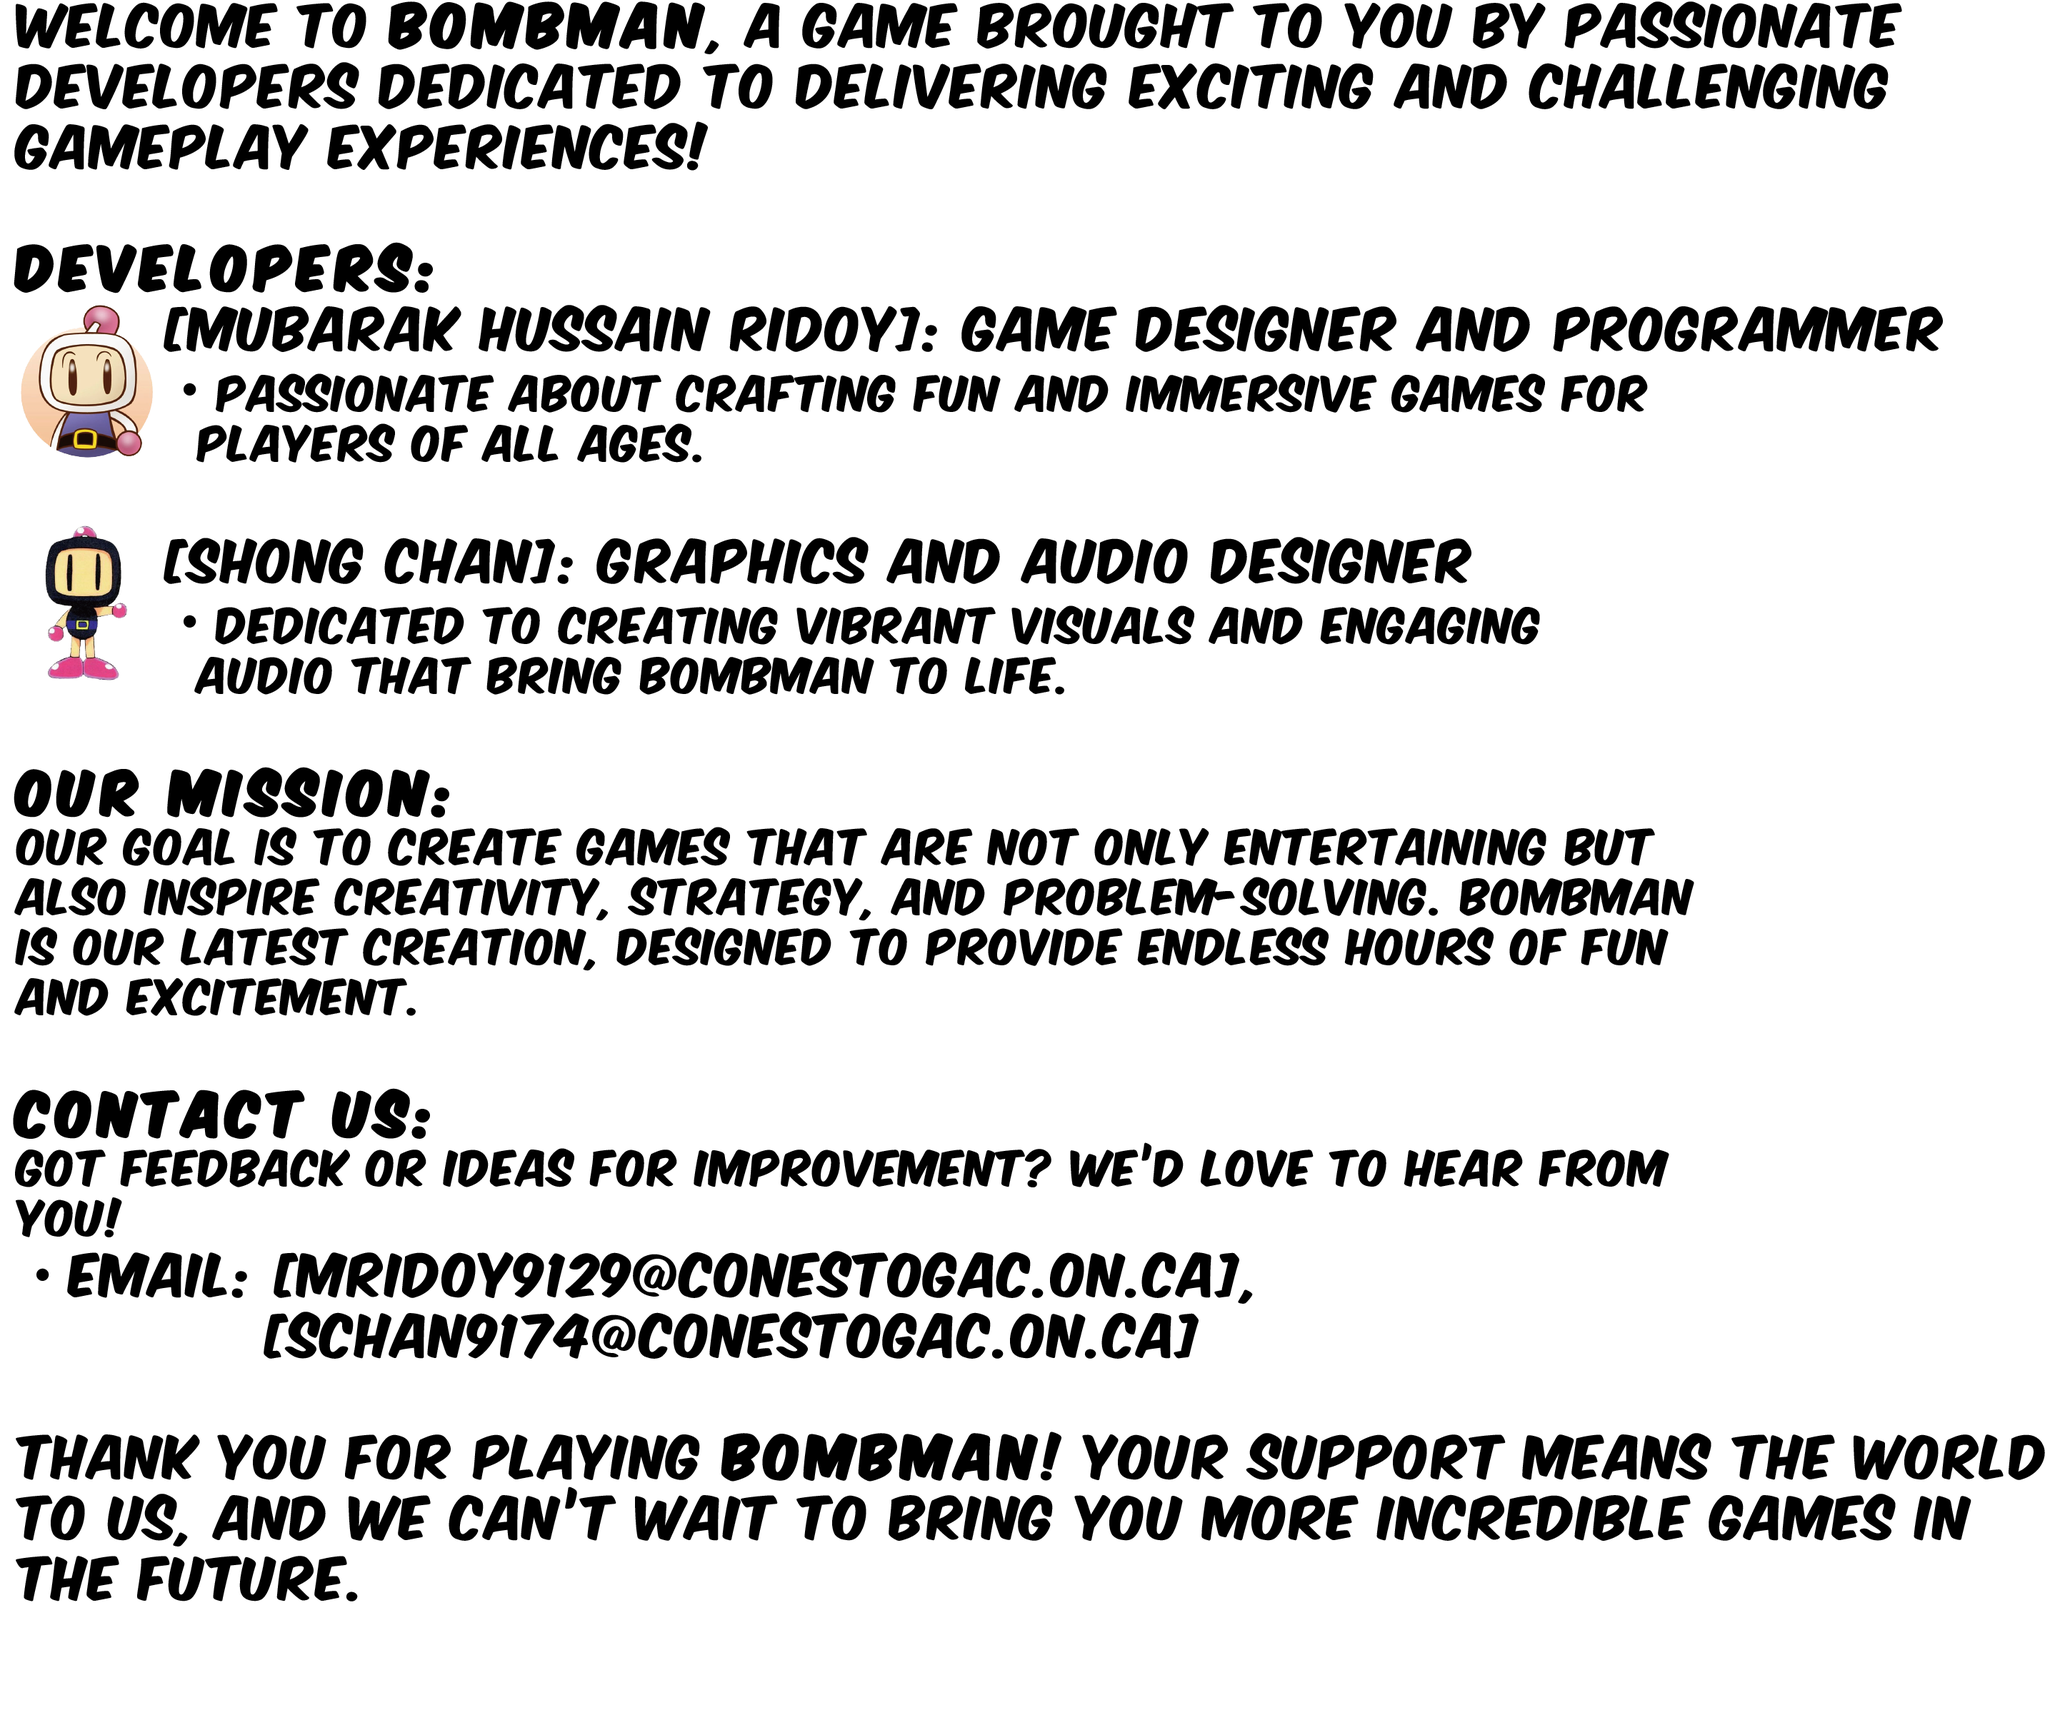
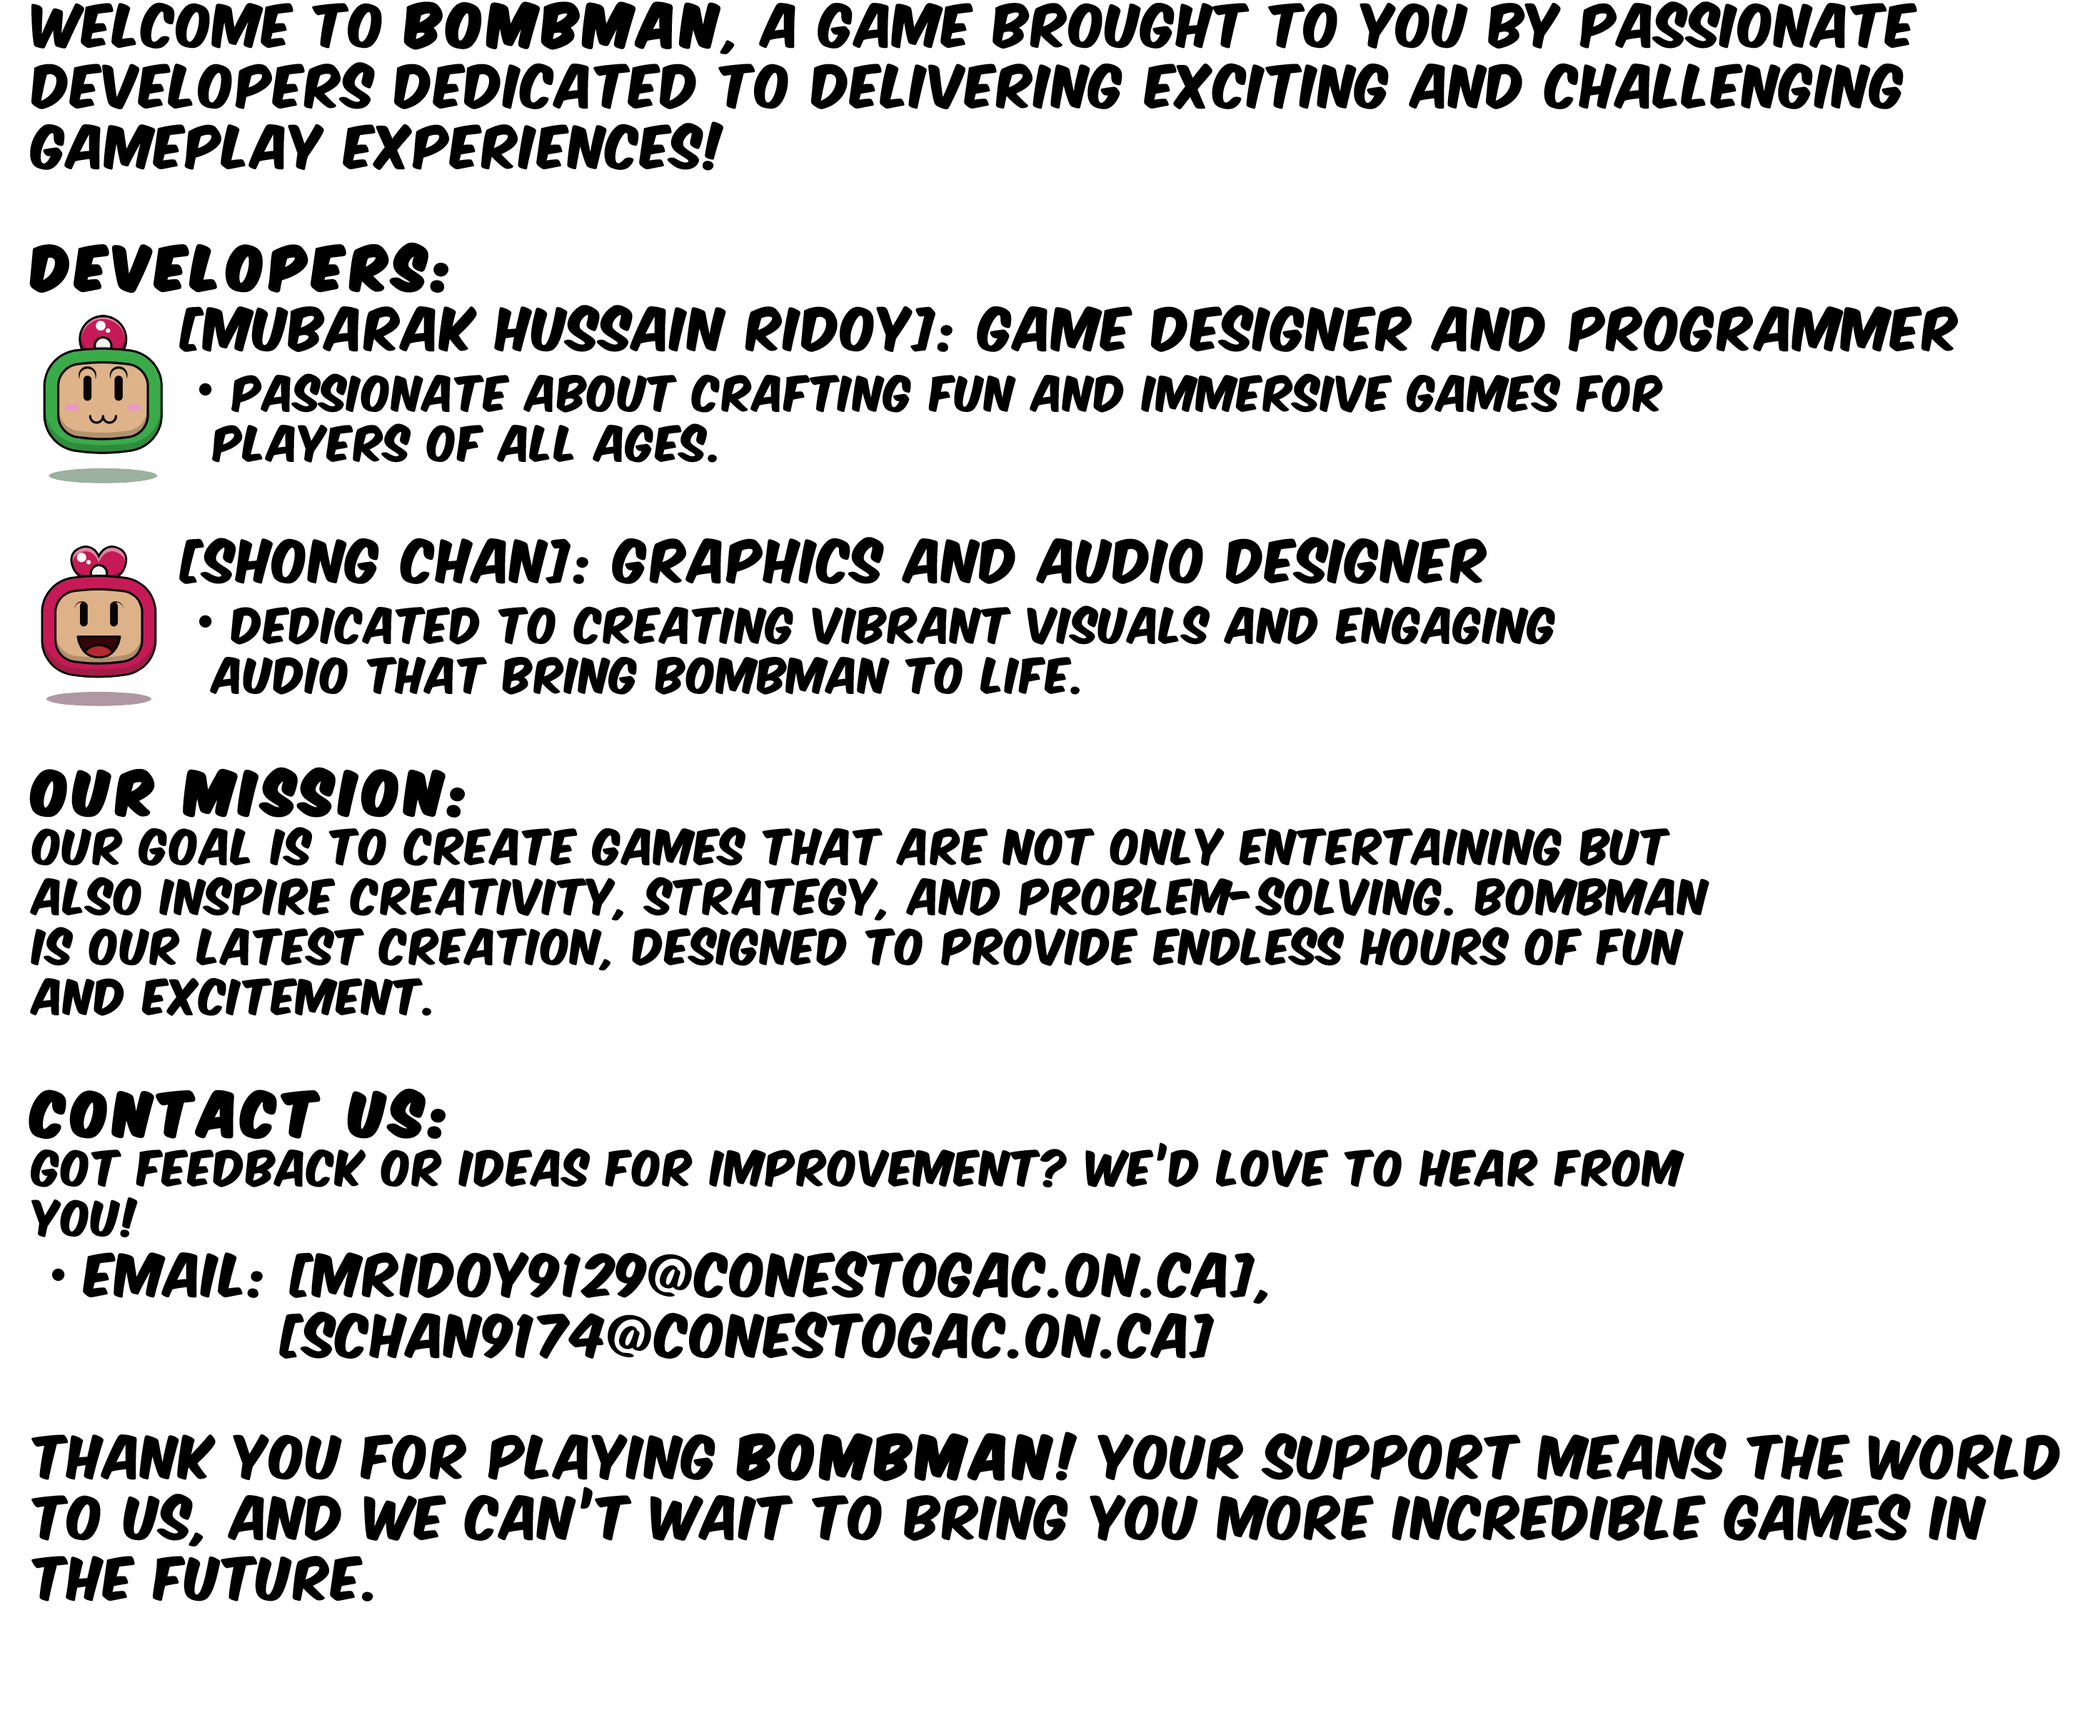
some changes

Changed region(s): [[0.0, 0.6173, 0.9627, 0.9259], [0.0, 0.0, 0.9317, 0.2778], [0.0, 0.3086, 0.8075, 0.5864]]

diff --git a/BombMan/Source/Components/GamePlay/HUD.cs b/BombMan/Source/Components/GamePlay/HUD.cs
@@ -52,7 +52,7 @@ namespace BombMan.Source.Components.GamePlay
 
             // Draw the "Lives:" text
             Vector2 livesTextPosition = new(livesStartX, 10);
-            Resource.SpriteBatch.DrawString(Art.DefaultFont, "Lives:", livesTextPosition, Color.White, 0f, Vector2.Zero, textScale, SpriteEffects.None, 0f);
+            Resource.SpriteBatch.DrawString(Art.DefaultFont, "Lives:", livesTextPosition, Color.OrangeRed, 0f, Vector2.Zero, textScale, SpriteEffects.None, 0f);
 
             // Draw the health icons next to "Lives:" text
             float healthIconsStartX = livesTextPosition.X + livesTextSize.X + 10; // 10px gap between text and icons
@@ -60,7 +60,7 @@ namespace BombMan.Source.Components.GamePlay
             {
                 Vector2 heartPosition = new(healthIconsStartX + i * (_healthIconSize + 5), 10);
                 Rectangle destinationRectangle = new((int)heartPosition.X, (int)heartPosition.Y, _healthIconSize, _healthIconSize);
-                Resource.SpriteBatch.Draw(Art.HealthIcon, destinationRectangle, Color.White);
+                Resource.SpriteBatch.Draw(Art.HealthIcon, destinationRectangle, Color.OrangeRed);
             }
 
             // Adjust spacing for the next section
@@ -70,19 +70,19 @@ namespace BombMan.Source.Components.GamePlay
             string levelText = $"Level: {_gameWorld.Level}";
             Vector2 levelTextSize = Art.DefaultFont.MeasureString(levelText) * textScale;
             Vector2 levelTextPosition = new((screenWidth - levelTextSize.X) / 2, 10 + _healthIconSize + sectionSpacing);
-            Resource.SpriteBatch.DrawString(Art.DefaultFont, levelText, levelTextPosition, Color.White, 0f, Vector2.Zero, textScale, SpriteEffects.None, 0f);
+            Resource.SpriteBatch.DrawString(Art.DefaultFont, levelText, levelTextPosition, Color.OrangeRed, 0f, Vector2.Zero, textScale, SpriteEffects.None, 0f);
 
             string scoreText = $"Score: {_gameWorld.Score}";
             Vector2 scoreTextSize = Art.DefaultFont.MeasureString(scoreText) * textScale;
             Vector2 scoreTextPosition = new((screenWidth - scoreTextSize.X) / 2, levelTextPosition.Y + levelTextSize.Y + 5); // Smaller gap
-            Resource.SpriteBatch.DrawString(Art.DefaultFont, scoreText, scoreTextPosition, Color.White, 0f, Vector2.Zero, textScale, SpriteEffects.None, 0f);
+            Resource.SpriteBatch.DrawString(Art.DefaultFont, scoreText, scoreTextPosition, Color.OrangeRed, 0f, Vector2.Zero, textScale, SpriteEffects.None, 0f);
 
             string highScoreText = _gameWorld.HighScores != null && _gameWorld.HighScores.Count > 0
                 ? $"High Score: {_gameWorld.HighScores[0]}"
                 : "High Score: 0";
             Vector2 highScoreTextSize = Art.DefaultFont.MeasureString(highScoreText) * textScale;
             Vector2 highScoreTextPosition = new((screenWidth - highScoreTextSize.X) / 2, scoreTextPosition.Y + scoreTextSize.Y + 5); // Smaller gap
-            Resource.SpriteBatch.DrawString(Art.DefaultFont, highScoreText, highScoreTextPosition, Color.White, 0f, Vector2.Zero, textScale, SpriteEffects.None, 0f);
+            Resource.SpriteBatch.DrawString(Art.DefaultFont, highScoreText, highScoreTextPosition, Color.OrangeRed, 0f, Vector2.Zero, textScale, SpriteEffects.None, 0f);
         }
 
     }

diff --git a/BombMan/Source/Core/Shared/Art.cs b/BombMan/Source/Core/Shared/Art.cs
@@ -18,9 +18,12 @@ namespace BombMan.Source.Core.Shared
         public static Texture2D EnemyLvl1 { get; set; }
         public static Texture2D EnemyLvl2 { get; set; }
         public static Texture2D EnemyLvl3 { get; set; }
-        public static Texture2D BackgroundLvl1 { get; set; }
-        public static Texture2D BackgroundLvl2 { get; set; }
-        public static Texture2D BackgroundLvl3 { get; set; }
+        public static Texture2D GameBackground { get; set; }
+        public static Texture2D BomberManPoster { get; set; }
+        public static Texture2D StageBackgroundLvl1 { get; set; }
+        public static Texture2D StageBackgroundLvl2 { get; set; }
+        public static Texture2D StageBackgroundLvl3 { get; set; }
+       
         public static Texture2D BlockLvl1 { get; set; }
         public static Texture2D BlockLvl2 { get; set; }
         public static Texture2D BlockLvl3 { get; set; }
@@ -45,12 +48,14 @@ namespace BombMan.Source.Core.Shared
             Bomb = Resource.ContentManager.Load<Texture2D>("Images/Items/Bomb");
             Explosion = Resource.ContentManager.Load<Texture2D>("Images/Items/Explosion");
             HeroImages = Resource.ContentManager.Load<Texture2D>("Images/Characters/Heroes");
+            GameBackground = Resource.ContentManager.Load<Texture2D>("Images/Backgrounds/Background");
+            BomberManPoster = Resource.ContentManager.Load<Texture2D>("Images/Backgrounds/BomberManPoster");
             EnemyLvl1 = Resource.ContentManager.Load<Texture2D>("Images/Characters/Enemies/EnemyLvl1");
             EnemyLvl2 = Resource.ContentManager.Load<Texture2D>("Images/Characters/Enemies/EnemyLvl2");
             EnemyLvl3 = Resource.ContentManager.Load<Texture2D>("Images/Characters/Enemies/EnemyLvl3");
-            BackgroundLvl1 = Resource.ContentManager.Load<Texture2D>("Images/Backgrounds/BackgroundLvl1");
-            BackgroundLvl2 = Resource.ContentManager.Load<Texture2D>("Images/Backgrounds/BackgroundLvl2");
-            //BackgroundLvl3 = Resource.ContentManager.Load<Texture2D>("Images/Backgrounds/BackgroundLvl3");
+            StageBackgroundLvl1 = Resource.ContentManager.Load<Texture2D>("Images/Backgrounds/StageBackgroundLvl1");
+            StageBackgroundLvl2 = Resource.ContentManager.Load<Texture2D>("Images/Backgrounds/StageBackgroundLvl2");
+            StageBackgroundLvl3 = Resource.ContentManager.Load<Texture2D>("Images/Backgrounds/StageBackgroundLvl3");
             BlockLvl1 = Resource.ContentManager.Load<Texture2D>("Images/Blocks/Block1");
             BlockLvl2 = Resource.ContentManager.Load<Texture2D>("Images/Blocks/Block2");
             BlockLvl3 = Resource.ContentManager.Load<Texture2D>("Images/Blocks/Block3");

diff --git a/BombMan/Source/Components/GamePlay/GamePlayManager.cs b/BombMan/Source/Components/GamePlay/GamePlayManager.cs
@@ -1,8 +1,9 @@
-using System;
-using BombMan.Source.Core.Shared;
+using BombMan.Source.Components.GamePlay.Worlds;
 using BombMan.Source.Components.Menus;
-using BombMan.Source.Components.GamePlay.Worlds;
+using BombMan.Source.Core.Shared;
 using Microsoft.Xna.Framework.Media;
+using System;
+using Microsoft.Xna.Framework;
 
 namespace BombMan.Source.Components.GamePlay
 {
@@ -21,15 +22,19 @@ namespace BombMan.Source.Components.GamePlay
         private PauseMenu _pauseMenu;
         private GameOverMenu _gameOverMenu;
         private GameWorld _gameWorld;
+        private readonly GameBackground _gameBackground;
 
         public GamePlayManager(bool loadGame)
         {
             _gameWorld = new GameWorld(loadGame); // Automatically load or initialize the game world
             _gameWorld.OnGameOver += HandleGameOver;
+            _gameBackground = new GameBackground(Vector2.Zero, Resource.ScreenWidth, Resource.ScreenHeight); // Assuming screen dimensions
         }
 
         public override void LoadContent()
         {
+            _gameBackground?.LoadContent();
+
             switch (_gameState)
             {
                 case GameState.Playing:
@@ -64,6 +69,10 @@ namespace BombMan.Source.Components.GamePlay
 
         public override void Draw()
         {
+            // Always draw the background
+            _gameBackground?.Draw();
+
+            // Draw elements based on the current game state
             switch (_gameState)
             {
                 case GameState.Playing:
@@ -118,7 +127,7 @@ namespace BombMan.Source.Components.GamePlay
             _pauseMenu.OnSaveProgressRequest += () =>
             {
                 _gameWorld.SaveToFile();
-                Art.PauseSound.Play(); // mimics save sound
+                Art.PauseSound.Play(); // Mimics save sound
             };
             _pauseMenu.OnMainMenuRequest += () => MainMenuRequested?.Invoke();
         }
@@ -146,5 +155,3 @@ namespace BombMan.Source.Components.GamePlay
         }
     }
 }
-
-

diff --git a/BombMan/Source/Components/Menus/MenuManager.cs b/BombMan/Source/Components/Menus/MenuManager.cs
@@ -4,6 +4,7 @@ using System;
 using System.Collections.Generic;
 using Microsoft.Xna.Framework;
 using Microsoft.Xna.Framework.Media;
+using BombMan.Source.Components.GamePlay;
 
 namespace BombMan.Source.Components.Menus
 {
@@ -14,11 +15,12 @@ namespace BombMan.Source.Components.Menus
 
         private readonly Stack<BaseMenu> _menuStack;
         private BaseMenu _currentMenu;
-        private Texture2D _posterImg;
         private Song _menuBackgroundMusic;
+        private readonly BomberManPoster _bomberManPoster;
 
         public MenuManager()
         {
+            _bomberManPoster = new BomberManPoster(Vector2.Zero, Resource.ScreenWidth, Resource.ScreenHeight);
             _menuStack = new Stack<BaseMenu>();
             var mainMenu = new MainMenu();
             _menuStack.Push(mainMenu);
@@ -36,16 +38,11 @@ namespace BombMan.Source.Components.Menus
 
         public override void LoadContent()
         {
-            _posterImg = Resource.ContentManager.Load<Texture2D>("Images/BomberManPoster");
+            _bomberManPoster.LoadContent();
             _menuBackgroundMusic = Resource.ContentManager.Load<Song>("Audio/Menus/menuBackgroundMusic");
             MediaPlayer.IsRepeating = true;
             MediaPlayer.Play(_menuBackgroundMusic);
             _currentMenu.LoadContent();
-        }
-
-        private void DrawPosterImage()
-        {
-            Resource.SpriteBatch.Draw(_posterImg, new Vector2(0, 0), Color.White);
         }
 
         public override void Update()
@@ -55,7 +52,7 @@ namespace BombMan.Source.Components.Menus
 
         public override void Draw()
         {
-            DrawPosterImage();
+            _bomberManPoster.Draw();
             _currentMenu.Draw();
         }
 

diff --git a/BombMan/Source/Components/GamePlay/StageBackground.cs b/BombMan/Source/Components/GamePlay/StageBackground.cs
@@ -26,10 +26,10 @@ namespace BombMan.Source.Components.GamePlay
             // Load the background image
             Texture = _level switch
             {
-                ELvl.Lvl1 => Art.BackgroundLvl2,
-                ELvl.Lvl2 => Art.BackgroundLvl2,
-                ELvl.Lvl3 => Art.BackgroundLvl3,
-                _ => Art.BackgroundLvl1
+                ELvl.Lvl1 => Art.StageBackgroundLvl1,
+                ELvl.Lvl2 => Art.StageBackgroundLvl2,
+                ELvl.Lvl3 => Art.StageBackgroundLvl3,
+                _ => Art.StageBackgroundLvl1
             };
         }
     }

diff --git a/BombMan/Source/Components/GamePlay/BomberManPoster.cs b/BombMan/Source/Components/GamePlay/BomberManPoster.cs
@@ -1,0 +1,20 @@
+using System;
+using BombMan.Source.Core.Shared;
+using Microsoft.Xna.Framework;
+
+namespace BombMan.Source.Components.GamePlay
+{
+    internal class BomberManPoster : StaticObject
+    {
+        public BomberManPoster(Vector2 position, int width, int height)
+            : base(position, width, height)
+        {
+        }
+
+        public override void LoadContent()
+        {
+            // Load the background image
+            Texture = Art.BomberManPoster;
+        }
+    }
+}

diff --git a/BombMan/Source/Components/GamePlay/GameBackground.cs b/BombMan/Source/Components/GamePlay/GameBackground.cs
@@ -1,0 +1,20 @@
+using System;
+using BombMan.Source.Core.Shared;
+using Microsoft.Xna.Framework;
+
+namespace BombMan.Source.Components.GamePlay
+{
+    internal class GameBackground: StaticObject
+    {
+        public GameBackground(Vector2 position, int width, int height)
+            : base(position, width, height)
+        {
+        }
+
+        public override void LoadContent()
+        {
+            // Load the background image
+            Texture = Art.GameBackground;
+        }
+    }
+}

diff --git a/BombMan/Source/Components/GamePlay/Worlds/GameWorld.cs b/BombMan/Source/Components/GamePlay/Worlds/GameWorld.cs
@@ -21,7 +21,7 @@ namespace BombMan.Source.Components.GamePlay.Worlds
         private const int CharacterWidth = 30;
         private const int CharacterHeight = 40;
         private const int HudHeight = 150;
-        private const int StageBackgroundPadding = 70;
+        private const int StageBackgroundPadding = 85;
 
         private const string SaveFilePath = "GameWorldSave.bombMan";
 
